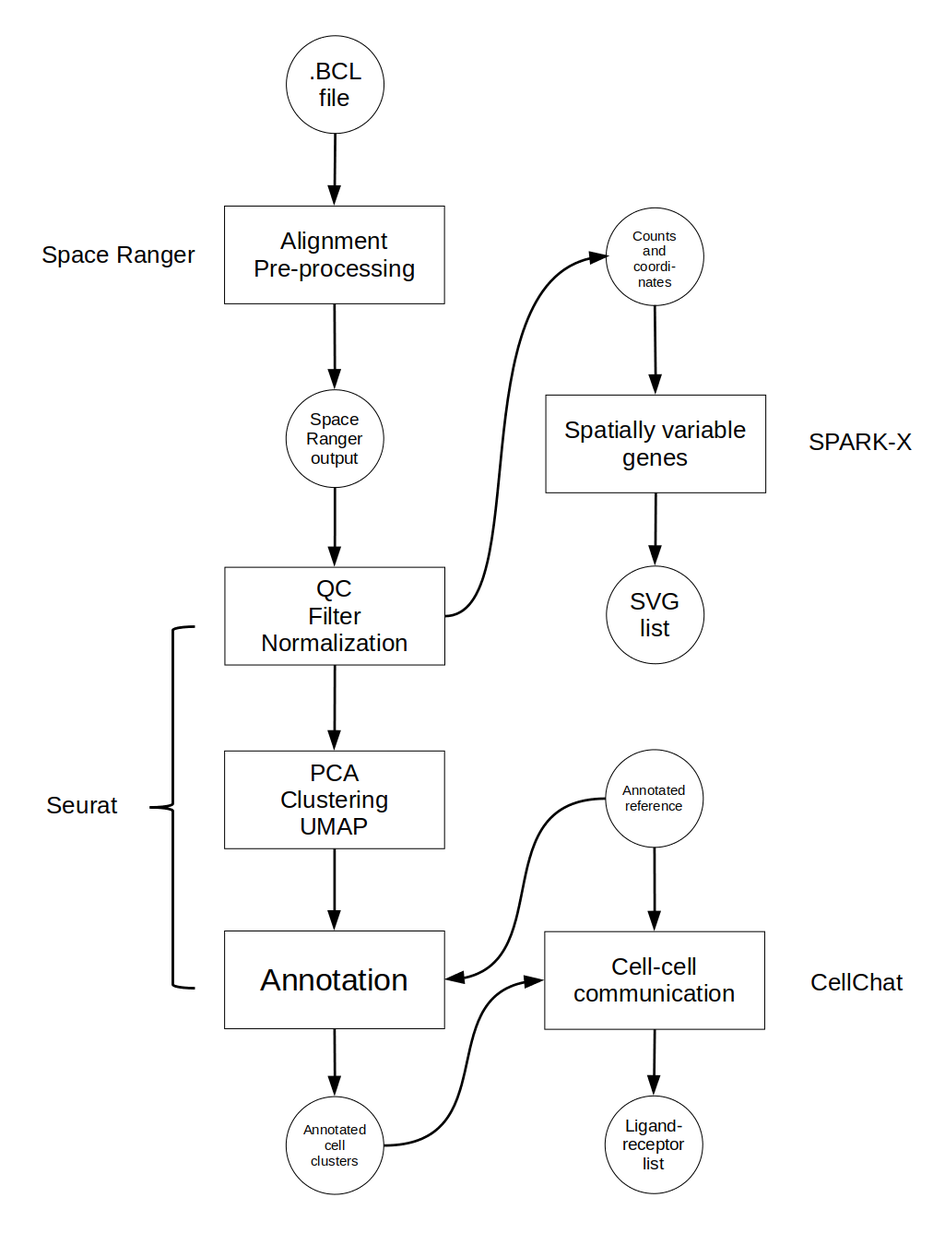
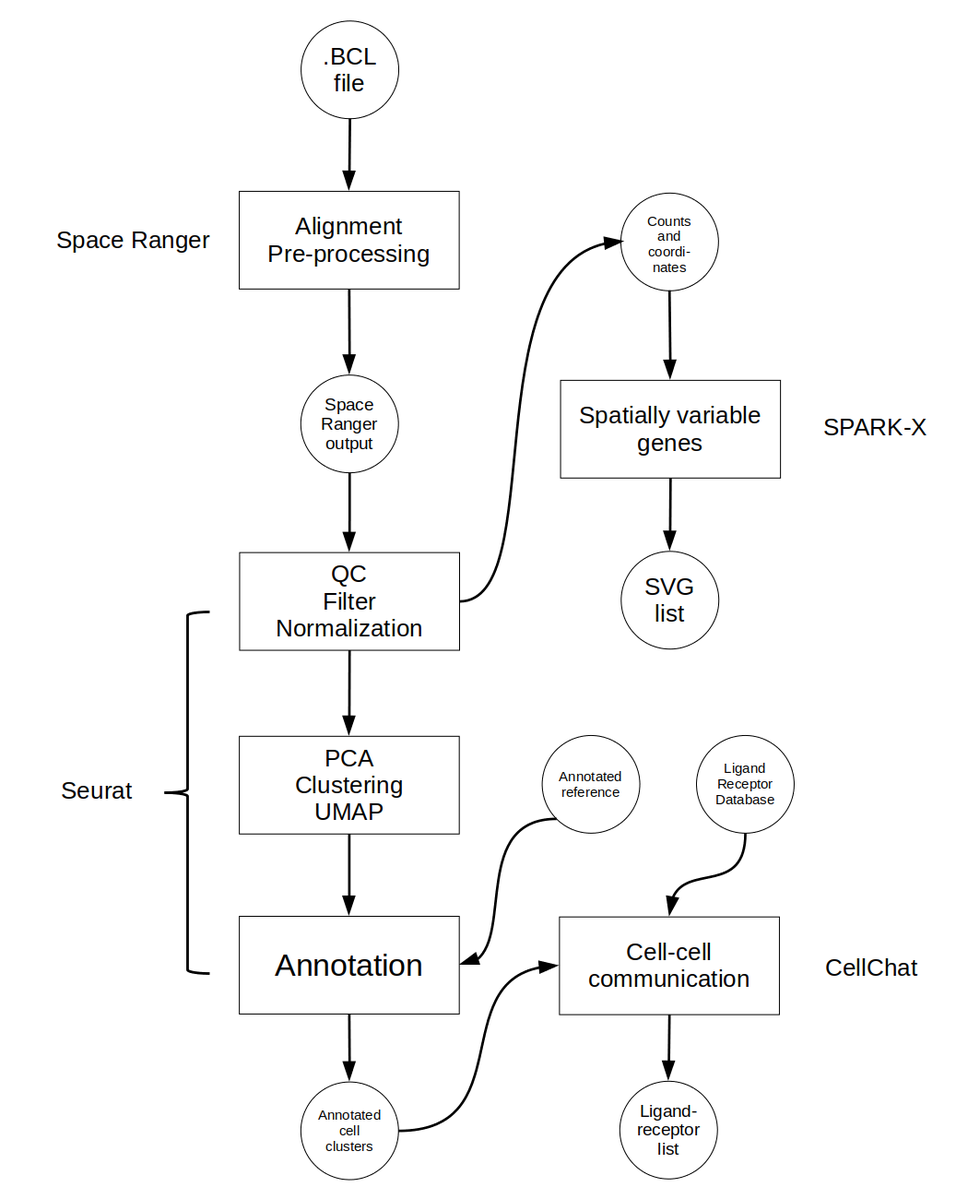
Fix figure and references in text

diff --git a/qc-clustering-and-annotating-with-seurat.html b/qc-clustering-and-annotating-with-seurat.html
@@ -23,7 +23,7 @@
 <meta name="author" content="Jessica Gillespie" />
 
 
-<meta name="date" content="2025-04-05" />
+<meta name="date" content="2025-04-07" />
 
   <meta name="viewport" content="width=device-width, initial-scale=1" />
   <meta name="apple-mobile-web-app-capable" content="yes" />
@@ -273,7 +273,7 @@ code span.wa { color: #60a0b0; font-weight: bold; font-style: italic; } /* Warni
 <p><img src="03-Clustering_files/figure-html/feature_check-2.png" width="672" /></p>
 <div class="sourceCode" id="cb11"><pre class="sourceCode r"><code class="sourceCode r"><span id="cb11-1"><a href="qc-clustering-and-annotating-with-seurat.html#cb11-1" tabindex="-1"></a><span class="fu">ggsave</span>(<span class="at">filename =</span> <span class="fu">paste0</span>(figs_dir, <span class="st">&quot;/Figure_clust_&quot;</span>, fig_num, <span class="st">&quot;.png&quot;</span>), <span class="at">plot =</span> <span class="fu">wrap_plots</span>(figa, figb, figc), <span class="at">units =</span> <span class="st">&quot;in&quot;</span>, <span class="at">width =</span> two_panel <span class="sc">*</span> (<span class="dv">7</span><span class="sc">/</span><span class="dv">4</span>), <span class="at">height =</span> two_panel, <span class="at">dpi =</span> <span class="dv">300</span>)</span>
 <span id="cb11-2"><a href="qc-clustering-and-annotating-with-seurat.html#cb11-2" tabindex="-1"></a>fig_num <span class="ot">=</span> fig_num <span class="sc">+</span> <span class="dv">1</span></span></code></pre></div>
-<p>Based on Figure 2, we use the <code>subset</code> function to select samples with a mitochondrial percent &lt; 30 and a feature count &lt; 50,000.</p>
+<p>Based on the plots above, we use the <code>subset</code> function to select samples with a mitochondrial percent &lt; 30 and a feature count &lt; 50,000.</p>
 <div class="sourceCode" id="cb12"><pre class="sourceCode r"><code class="sourceCode r"><span id="cb12-1"><a href="qc-clustering-and-annotating-with-seurat.html#cb12-1" tabindex="-1"></a>brain_ant <span class="ot">&lt;-</span> <span class="fu">subset</span>(brain_ant, </span>
 <span id="cb12-2"><a href="qc-clustering-and-annotating-with-seurat.html#cb12-2" tabindex="-1"></a>                    <span class="at">subset =</span> percent.mt <span class="sc">&lt;</span> <span class="dv">30</span> <span class="sc">&amp;</span> nCount_Spatial <span class="sc">&lt;</span> <span class="dv">50000</span>)</span></code></pre></div>
 </div>
@@ -305,25 +305,25 @@ code span.wa { color: #60a0b0; font-weight: bold; font-style: italic; } /* Warni
 <pre><code>## Computing SNN</code></pre>
 <div class="sourceCode" id="cb19"><pre class="sourceCode r"><code class="sourceCode r"><span id="cb19-1"><a href="qc-clustering-and-annotating-with-seurat.html#cb19-1" tabindex="-1"></a>brain_ant <span class="ot">&lt;-</span> <span class="fu">FindClusters</span>(brain_ant, <span class="at">verbose =</span> <span class="cn">FALSE</span>)</span>
 <span id="cb19-2"><a href="qc-clustering-and-annotating-with-seurat.html#cb19-2" tabindex="-1"></a>brain_ant <span class="ot">&lt;-</span> <span class="fu">RunUMAP</span>(brain_ant, <span class="at">reduction =</span> <span class="st">&quot;pca&quot;</span>, <span class="at">dims =</span> <span class="dv">1</span><span class="sc">:</span><span class="dv">30</span>)</span></code></pre></div>
-<pre><code>## 09:29:18 UMAP embedding parameters a = 0.9922 b = 1.112</code></pre>
-<pre><code>## 09:29:18 Read 2779 rows and found 30 numeric columns</code></pre>
-<pre><code>## 09:29:18 Using Annoy for neighbor search, n_neighbors = 30</code></pre>
-<pre><code>## 09:29:18 Building Annoy index with metric = cosine, n_trees = 50</code></pre>
+<pre><code>## 04:18:50 UMAP embedding parameters a = 0.9922 b = 1.112</code></pre>
+<pre><code>## 04:18:50 Read 2779 rows and found 30 numeric columns</code></pre>
+<pre><code>## 04:18:50 Using Annoy for neighbor search, n_neighbors = 30</code></pre>
+<pre><code>## 04:18:50 Building Annoy index with metric = cosine, n_trees = 50</code></pre>
 <pre><code>## 0%   10   20   30   40   50   60   70   80   90   100%</code></pre>
 <pre><code>## [----|----|----|----|----|----|----|----|----|----|</code></pre>
 <pre><code>## **************************************************|
-## 09:29:18 Writing NN index file to temp file /tmp/Rtmpl7t7cx/file1931c18242605
-## 09:29:18 Searching Annoy index using 1 thread, search_k = 3000
-## 09:29:18 Annoy recall = 100%
-## 09:29:19 Commencing smooth kNN distance calibration using 1 thread with target n_neighbors = 30
-## 09:29:19 Initializing from normalized Laplacian + noise (using RSpectra)
-## 09:29:20 Commencing optimization for 500 epochs, with 109402 positive edges
-## 09:29:20 Using rng type: pcg
-## 09:29:22 Optimization finished</code></pre>
+## 04:18:50 Writing NN index file to temp file /tmp/RtmpBB83Wh/file17d134de6e26
+## 04:18:50 Searching Annoy index using 1 thread, search_k = 3000
+## 04:18:50 Annoy recall = 100%
+## 04:18:51 Commencing smooth kNN distance calibration using 1 thread with target n_neighbors = 30
+## 04:18:52 Initializing from normalized Laplacian + noise (using RSpectra)
+## 04:18:52 Commencing optimization for 500 epochs, with 109402 positive edges
+## 04:18:52 Using rng type: pcg
+## 04:18:54 Optimization finished</code></pre>
 </div>
 <div id="visualizing-clusters" class="section level2 hasAnchor" number="4.4">
 <h2><span class="header-section-number">4.4</span> Visualizing Clusters<a href="qc-clustering-and-annotating-with-seurat.html#visualizing-clusters" class="anchor-section" aria-label="Anchor link to header"></a></h2>
-<p>There are a few options for visualization of our clusters. First, a traditional UMAP plot showing our clustering results with this <code>DimPlot</code> function (Figure 4a). <code>SpatialDimPlot</code> will show the distribution of identified clusters by overlaying them onto our tissue image. Giving <code>SpatialDimPlot</code> a few cluster identities allows us to highlight the location of selected clusters (Figure 4b).</p>
+<p>There are a few options for visualization of our clusters. First, a traditional UMAP plot showing our clustering results with this <code>DimPlot</code> function. <code>SpatialDimPlot</code> will show the distribution of identified clusters by overlaying them onto our tissue image. Giving <code>SpatialDimPlot</code> a few cluster identities allows us to highlight the location of selected clusters.</p>
 <p>Again, these are ggplot objects that can be customized using the ggplot2 package.</p>
 <div class="sourceCode" id="cb27"><pre class="sourceCode r"><code class="sourceCode r"><span id="cb27-1"><a href="qc-clustering-and-annotating-with-seurat.html#cb27-1" tabindex="-1"></a>figa <span class="ot">&lt;-</span> <span class="fu">DimPlot</span>(brain_ant, <span class="at">reduction =</span> <span class="st">&quot;umap&quot;</span>, <span class="at">label =</span> <span class="cn">TRUE</span>) <span class="sc">+</span></span>
 <span id="cb27-2"><a href="qc-clustering-and-annotating-with-seurat.html#cb27-2" tabindex="-1"></a>                <span class="fu">labs</span>(<span class="at">title =</span> <span class="st">&quot;A&quot;</span>) <span class="sc">+</span></span>
@@ -346,7 +346,7 @@ code span.wa { color: #60a0b0; font-weight: bold; font-style: italic; } /* Warni
 <div id="spot-annotating" class="section level2 hasAnchor" number="4.5">
 <h2><span class="header-section-number">4.5</span> Spot Annotating<a href="qc-clustering-and-annotating-with-seurat.html#spot-annotating" class="anchor-section" aria-label="Anchor link to header"></a></h2>
 <p>A final step required is to annotate our clusters by assigning them cell types. This process is not single-cell resolution as our clusters consist of “spots” that contain several cells each (a characteristic of the 10X Visium platform used here). Deconvolution is needed to estimate individual cell types in each spot and is a separate step.</p>
-<p>While there are automated methods to do this, they are far from perfect, and the best way to annotate your samples is to have domain knowledge of markers that indicate cell types. If particular markers are known, expression can be viewed by cluster via a violin plot to assist in confirming. Several methods exist to perform this step. <code>SingleR</code> with <code>celldex</code> is a popular method. Another method is <code>Azimuth</code>. Here, we will use Sc-Type. The <code>run_sctype</code> function has built-in references if we provide “Brain” as the tissue type. Note that this reference is currently only for human tissue so the match will not be perfect for our data here. We can then show the new cluster assignments using <code>DimPlot</code> and <code>SpatialDimPlot</code> (Figure 5).</p>
+<p>While there are automated methods to do this, they are far from perfect, and the best way to annotate your samples is to have domain knowledge of markers that indicate cell types. If particular markers are known, expression can be viewed by cluster via a violin plot to assist in confirming. Several methods exist to perform this step. <code>SingleR</code> with <code>celldex</code> is a popular method. Another method is <code>Azimuth</code>. Here, we will use Sc-Type. The <code>run_sctype</code> function has built-in references if we provide “Brain” as the tissue type. Note that this reference is currently only for human tissue so the match will not be perfect for our data here. We can then show the new cluster assignments using <code>DimPlot</code> and <code>SpatialDimPlot</code>.</p>
 <div class="sourceCode" id="cb29"><pre class="sourceCode r"><code class="sourceCode r"><span id="cb29-1"><a href="qc-clustering-and-annotating-with-seurat.html#cb29-1" tabindex="-1"></a>brain_ant <span class="ot">&lt;-</span> <span class="fu">run_sctype</span>(brain_ant, <span class="at">assay =</span> <span class="st">&quot;SCT&quot;</span>, <span class="at">scaled =</span> <span class="cn">TRUE</span>,</span>
 <span id="cb29-2"><a href="qc-clustering-and-annotating-with-seurat.html#cb29-2" tabindex="-1"></a>                     <span class="at">known_tissue_type=</span><span class="st">&quot;Brain&quot;</span>, <span class="at">name=</span><span class="st">&quot;sctype_classification&quot;</span>)</span></code></pre></div>
 <pre><code>## [1] &quot;Using Seurat v4 object&quot;

diff --git a/cell-cell-communication-with-cellchat.html b/cell-cell-communication-with-cellchat.html
@@ -23,7 +23,7 @@
 <meta name="author" content="Jessica Gillespie" />
 
 
-<meta name="date" content="2025-04-05" />
+<meta name="date" content="2025-04-07" />
 
   <meta name="viewport" content="width=device-width, initial-scale=1" />
   <meta name="apple-mobile-web-app-capable" content="yes" />
@@ -218,7 +218,7 @@ code span.wa { color: #60a0b0; font-weight: bold; font-style: italic; } /* Warni
 <div id="cell-cell-communication-with-cellchat" class="section level1 hasAnchor" number="6">
 <h1><span class="header-section-number">Chapter 6</span> Cell-Cell Communication with CellChat<a href="cell-cell-communication-with-cellchat.html#cell-cell-communication-with-cellchat" class="anchor-section" aria-label="Anchor link to header"></a></h1>
 <p>Cells communicate by releasing and receiving molecular messages called ligands. Ligands bind to receptors, often found on cell surfaces. This binding then activates a reaction or pathway that leads to a cell function. Due to decades of research, we know which ligands typically bind to which receptors. Thanks to the scRNA-seq data for our sample we know which cells are expressing either the ligand or receptor in a canonical communication pair. As we also have spatial data available, we can use statistics to predict which cells are most likely communicating with one another based on ligand-receptor gene expression and physical distance from one another.</p>
-<p>One factor that heavily influences the results of any CCC analysis is the ligand-receptor database used. Indeed the same method can return two drastically different results merely by working from two different ligand-receptor pair lists. CellChat has its own database, CellChatDB, which is manually curated and takes into account things like subunit structure and regulatory pathways. The database is not exhaustive, however, and some ligand-receptor pairs may be missing. Users are able to update the database following the instructions <a href="https://htmlpreview.github.io/?https://github.com/jinworks/CellChat/blob/master/tutorial/Update-CellChatDB.html%5D">here</a></p>
+<p>One factor that heavily influences the results of any CCC analysis is the ligand-receptor database used. Indeed the same method can return two drastically different results merely by working from two different ligand-receptor pair lists. CellChat has its own database, CellChatDB, which is manually curated and takes into account things like subunit structure and regulatory pathways. The database is not exhaustive, however, and some ligand-receptor pairs may be missing. Users are able to update the database following the instructions <a href="https://htmlpreview.github.io/?https://github.com/jinworks/CellChat/blob/master/tutorial/Update-CellChatDB.html">here</a></p>
 <p>Another important factor is your annotations previously added in the Clustering step. CellChat will group samples by these annotations to determine which groups are potentially communicating with one another. Be sure your sample is well annotated to obtain the most accurate communication network.</p>
 <p>As always, let’s load our libraries.</p>
 <div class="sourceCode" id="cb45"><pre class="sourceCode r"><code class="sourceCode r"><span id="cb45-1"><a href="cell-cell-communication-with-cellchat.html#cb45-1" tabindex="-1"></a><span class="fu">rm</span>(<span class="at">list =</span> <span class="fu">ls</span>())</span>
@@ -351,7 +351,7 @@ code span.wa { color: #60a0b0; font-weight: bold; font-style: italic; } /* Warni
 <div class="sourceCode" id="cb66"><pre class="sourceCode r"><code class="sourceCode r"><span id="cb66-1"><a href="cell-cell-communication-with-cellchat.html#cb66-1" tabindex="-1"></a>fig_num <span class="ot">&lt;-</span> fig_num <span class="sc">+</span> <span class="dv">1</span></span>
 <span id="cb66-2"><a href="cell-cell-communication-with-cellchat.html#cb66-2" tabindex="-1"></a><span class="fu">netVisual_heatmap</span>(cellChat, <span class="at">measure =</span> <span class="st">&quot;weight&quot;</span>, <span class="at">color.heatmap =</span> <span class="st">&quot;Blues&quot;</span>)</span></code></pre></div>
 <p><img src="05-CCC_files/figure-html/vis_full-4.png" width="672" /></p>
-<p>If we are interested in a particular signaling pathway, a list of communication probabilities is available in the CellChat object metadata. We can look at the probability of interactions between cell groups involved in the NOTCH pathway with the <code>netVisual_aggregate</code> function (Figure 8).</p>
+<p>If we are interested in a particular signaling pathway, a list of communication probabilities is available in the CellChat object metadata. We can look at the probability of interactions between cell groups involved in the NOTCH pathway with the <code>netVisual_aggregate</code> function.</p>
 <div class="sourceCode" id="cb67"><pre class="sourceCode r"><code class="sourceCode r"><span id="cb67-1"><a href="cell-cell-communication-with-cellchat.html#cb67-1" tabindex="-1"></a><span class="co"># Visualize pathways</span></span>
 <span id="cb67-2"><a href="cell-cell-communication-with-cellchat.html#cb67-2" tabindex="-1"></a>cellChat<span class="sc">@</span>netP<span class="sc">$</span>pathways</span></code></pre></div>
 <pre><code>##   [1] &quot;Glutamate&quot;        &quot;GABA-A&quot;           &quot;GABA-B&quot;          
@@ -401,7 +401,7 @@ code span.wa { color: #60a0b0; font-weight: bold; font-style: italic; } /* Warni
 <div class="sourceCode" id="cb71"><pre class="sourceCode r"><code class="sourceCode r"><span id="cb71-1"><a href="cell-cell-communication-with-cellchat.html#cb71-1" tabindex="-1"></a>fig_num <span class="ot">&lt;-</span> fig_num <span class="sc">+</span> <span class="dv">1</span></span>
 <span id="cb71-2"><a href="cell-cell-communication-with-cellchat.html#cb71-2" tabindex="-1"></a><span class="fu">netVisual_aggregate</span>(cellChat, <span class="at">signaling =</span> pathways.show, <span class="at">layout =</span> <span class="st">&quot;circle&quot;</span>)</span></code></pre></div>
 <p><img src="05-CCC_files/figure-html/vis_path-1.png" width="672" /></p>
-<p>Finally, we can explore the “centrality” of a network. This tells us which nodes are active in the most pathways and therefore could be more “important”. The calculation is done with “netAnalysis_computeCentrality” and visualized with <code>netAnalysis_signalingRole_network</code> (Figure 9).</p>
+<p>Finally, we can explore the “centrality” of a network. This tells us which nodes are active in the most pathways and therefore could be more “important”. The calculation is done with “netAnalysis_computeCentrality” and visualized with <code>netAnalysis_signalingRole_network</code>.</p>
 <div class="sourceCode" id="cb72"><pre class="sourceCode r"><code class="sourceCode r"><span id="cb72-1"><a href="cell-cell-communication-with-cellchat.html#cb72-1" tabindex="-1"></a><span class="co"># Compute the network centrality scores</span></span>
 <span id="cb72-2"><a href="cell-cell-communication-with-cellchat.html#cb72-2" tabindex="-1"></a>cellChat <span class="ot">&lt;-</span> <span class="fu">netAnalysis_computeCentrality</span>(cellChat, <span class="at">slot.name =</span> <span class="st">&quot;netP&quot;</span>) <span class="co"># the slot &#39;netP&#39; means the inferred intercellular communication network of signaling pathways</span></span>
 <span id="cb72-3"><a href="cell-cell-communication-with-cellchat.html#cb72-3" tabindex="-1"></a><span class="co"># Visualize the computed centrality scores using heatmap, allowing ready identification of major signaling roles of cell groups</span></span>

diff --git a/future-directions-and-conclusion.html b/future-directions-and-conclusion.html
@@ -23,7 +23,7 @@
 <meta name="author" content="Jessica Gillespie" />
 
 
-<meta name="date" content="2025-04-05" />
+<meta name="date" content="2025-04-07" />
 
   <meta name="viewport" content="width=device-width, initial-scale=1" />
   <meta name="apple-mobile-web-app-capable" content="yes" />
@@ -224,7 +224,7 @@ code span.wa { color: #60a0b0; font-weight: bold; font-style: italic; } /* Warni
 </div>
 <div id="conclusion" class="section level2 hasAnchor" number="7.2">
 <h2><span class="header-section-number">7.2</span> Conclusion<a href="future-directions-and-conclusion.html#conclusion" class="anchor-section" aria-label="Anchor link to header"></a></h2>
-<p>Spatial transcriptomics adds another level to RNA analysis, combining gene expression and location information. While we present a simple workflow with mostly default options, there are many nuances to ST analysis. For example, many software has the option to pre-process data before clustering yet there has been evidence that pre-processing can greatly affect analysis outcome18. Similarly, normalization can affect deconvolution and it is suggested only raw spatial data should be used. For SVGs and CCC, the list of results returned and their associated statistics greatly depends on the software and database choice respectively. It has been demonstrated in multiple studies that analysis performance is highly dependent on the dataset/software pairing and further algorithm refinement is necessary.</p>
+<p>Spatial transcriptomics adds another level to RNA analysis, combining gene expression and location information. While we present a simple workflow with mostly default options, there are many nuances to ST analysis. For example, many software has the option to pre-process data before clustering yet there has been evidence that pre-processing can greatly affect analysis outcome. Similarly, normalization can affect deconvolution and it is suggested only raw spatial data should be used. For SVGs and CCC, the list of results returned and their associated statistics greatly depends on the software and database choice respectively. It has been demonstrated in multiple studies that analysis performance is highly dependent on the dataset/software pairing and further algorithm refinement is necessary.</p>
 <p>Here we focus on one platform and a handful of software for analysis but there are many options available. Visium is only one sequencing platform with other popular options being Slide-seq, MERFISH, seqFISH, Visium HD, and the emerging 10X Genomics Xenium. Each platform has its own pros and cons and offers slightly different analysis options. There are also many software options for each analysis step mentioned here. Again, each has distinct advantages and strengths depending on the dataset and sequencing platform. In the future, we would like to expand this protocol to make it applicable to a wider variety of platforms and analysis options.</p>
 <div class="sourceCode" id="cb79"><pre class="sourceCode r"><code class="sourceCode r"><span id="cb79-1"><a href="future-directions-and-conclusion.html#cb79-1" tabindex="-1"></a><span class="fu">sessionInfo</span>()</span></code></pre></div>
 <pre><code>## R version 4.4.3 (2025-02-28)

diff --git a/spatially-variable-genes-svgs-discovery-with-spark-x.html b/spatially-variable-genes-svgs-discovery-with-spark-x.html
@@ -23,7 +23,7 @@
 <meta name="author" content="Jessica Gillespie" />
 
 
-<meta name="date" content="2025-04-05" />
+<meta name="date" content="2025-04-07" />
 
   <meta name="viewport" content="width=device-width, initial-scale=1" />
   <meta name="apple-mobile-web-app-capable" content="yes" />
@@ -266,7 +266,7 @@ code span.wa { color: #60a0b0; font-weight: bold; font-style: italic; } /* Warni
 </div>
 <div id="visualizing-svgs" class="section level2 hasAnchor" number="5.3">
 <h2><span class="header-section-number">5.3</span> Visualizing SVGs<a href="spatially-variable-genes-svgs-discovery-with-spark-x.html#visualizing-svgs" class="anchor-section" aria-label="Anchor link to header"></a></h2>
-<p>Now that we have a list of spatially variable genes, we can look at them across our tissue sample using the Seurat <code>SpatialFeaturePlot</code>. Here we look at the top 10 most significantly spatially variable genes (Figure 6).</p>
+<p>Now that we have a list of spatially variable genes, we can look at them across our tissue sample using the Seurat <code>SpatialFeaturePlot</code>. Here we look at the top 10 most significantly spatially variable genes.</p>
 <div class="sourceCode" id="cb40"><pre class="sourceCode r"><code class="sourceCode r"><span id="cb40-1"><a href="spatially-variable-genes-svgs-discovery-with-spark-x.html#cb40-1" tabindex="-1"></a>top10 <span class="ot">&lt;-</span> brain_spark<span class="sc">$</span>res_mtest <span class="sc">%&gt;%</span></span>
 <span id="cb40-2"><a href="spatially-variable-genes-svgs-discovery-with-spark-x.html#cb40-2" tabindex="-1"></a>          <span class="fu">filter</span>(<span class="fu">between</span>(adjustedPval, <span class="dv">0</span>, <span class="fl">0.05</span>)) <span class="sc">%&gt;%</span></span>
 <span id="cb40-3"><a href="spatially-variable-genes-svgs-discovery-with-spark-x.html#cb40-3" tabindex="-1"></a>          <span class="fu">top_n</span>(<span class="sc">-</span><span class="dv">10</span>, adjustedPval)</span>

diff --git a/introduction.html b/introduction.html
@@ -23,7 +23,7 @@
 <meta name="author" content="Jessica Gillespie" />
 
 
-<meta name="date" content="2025-04-05" />
+<meta name="date" content="2025-04-07" />
 
   <meta name="viewport" content="width=device-width, initial-scale=1" />
   <meta name="apple-mobile-web-app-capable" content="yes" />
@@ -224,7 +224,7 @@ code span.wa { color: #60a0b0; font-weight: bold; font-style: italic; } /* Warni
 <p>This protocol will focus on ST analysis with the three steps mentioned above. The software used at each step is one of a myriad of options and was chosen for ideal dataflow and ease of use. All are available as R packages therefore a familiarity with basic R functionality such as installing and loading R packages, handling R datatypes, and loading and saving data in R is advised.</p>
 <div id="general-workflow" class="section level2 hasAnchor" number="2.1">
 <h2><span class="header-section-number">2.1</span> General Workflow<a href="introduction.html#general-workflow" class="anchor-section" aria-label="Anchor link to header"></a></h2>
-<p>Figure 1 shows the general workflow of this pipeline along with the software for each step. The workflow is presented linearly here although the steps after clustering may be done in any order and several are optional depending on the desired analysis.</p>
+<p>The figure below shows the general workflow of this pipeline along with the software for each step. The workflow is presented linearly here although the steps after clustering may be done in any order and several are optional depending on the desired analysis.</p>
 <p><img src="Figure_intro_1.png" alt="Diagram of protocol workflow" />
 <br>
 <br>

diff --git a/materials.html b/materials.html
@@ -23,7 +23,7 @@
 <meta name="author" content="Jessica Gillespie" />
 
 
-<meta name="date" content="2025-04-05" />
+<meta name="date" content="2025-04-07" />
 
   <meta name="viewport" content="width=device-width, initial-scale=1" />
   <meta name="apple-mobile-web-app-capable" content="yes" />
@@ -227,9 +227,9 @@ code span.wa { color: #60a0b0; font-weight: bold; font-style: italic; } /* Warni
 <ul>
 <li><a href="https://www.r-project.org/">R (v4.4.2)</a></li>
 <li><a href="https://posit.co/downloads/">RStudio (RStudio 2024.12.0+467 “Kousa Dogwood”)</a></li>
-<li><a href="https://satijalab.org/seurat/">Seurat5 (v5.2.0)</a></li>
-<li><a href="https://xzhoulab.github.io/SPARK/">SPARK-X6</a></li>
-<li><a href="https://github.com/jinworks/CellChat">CellChat7 (v2.1.0)</a></li>
+<li><a href="https://satijalab.org/seurat/">Seurat (v5.2.0)</a></li>
+<li><a href="https://xzhoulab.github.io/SPARK/">SPARK-X</a></li>
+<li><a href="https://github.com/jinworks/CellChat">CellChat (v2.1.0)</a></li>
 </ul>
 </div>
 <div id="collect-necessary-files" class="section level2 hasAnchor" number="3.3">

diff --git a/index.html b/index.html
@@ -23,7 +23,7 @@
 <meta name="author" content="Jessica Gillespie" />
 
 
-<meta name="date" content="2025-04-05" />
+<meta name="date" content="2025-04-07" />
 
   <meta name="viewport" content="width=device-width, initial-scale=1" />
   <meta name="apple-mobile-web-app-capable" content="yes" />
@@ -218,7 +218,7 @@ code span.wa { color: #60a0b0; font-weight: bold; font-style: italic; } /* Warni
 <div id="header">
 <h1 class="title">A Gentle Introduction to Spatial Transcriptomics Analysis</h1>
 <p class="author"><em>Jessica Gillespie</em></p>
-<p class="date"><em>2025-04-05</em></p>
+<p class="date"><em>2025-04-07</em></p>
 </div>
 <div id="welcome" class="section level1 hasAnchor" number="1">
 <h1><span class="header-section-number">Chapter 1</span> Welcome!<a href="index.html#welcome" class="anchor-section" aria-label="Anchor link to header"></a></h1>

diff --git a/03-Clustering.md b/03-Clustering.md
@@ -81,7 +81,7 @@ ggsave(filename = paste0(figs_dir, "/Figure_clust_", fig_num, ".png"), plot = wr
 fig_num = fig_num + 1
 ```
 
-Based on Figure 2, we use the `subset` function to select samples with a mitochondrial percent < 30 and a feature count < 50,000.
+Based on the plots above, we use the `subset` function to select samples with a mitochondrial percent < 30 and a feature count < 50,000.
 
 
 ``` r
@@ -144,19 +144,19 @@ brain_ant <- RunUMAP(brain_ant, reduction = "pca", dims = 1:30)
 ```
 
 ```
-## 09:29:18 UMAP embedding parameters a = 0.9922 b = 1.112
+## 04:18:50 UMAP embedding parameters a = 0.9922 b = 1.112
 ```
 
 ```
-## 09:29:18 Read 2779 rows and found 30 numeric columns
+## 04:18:50 Read 2779 rows and found 30 numeric columns
 ```
 
 ```
-## 09:29:18 Using Annoy for neighbor search, n_neighbors = 30
+## 04:18:50 Using Annoy for neighbor search, n_neighbors = 30
 ```
 
 ```
-## 09:29:18 Building Annoy index with metric = cosine, n_trees = 50
+## 04:18:50 Building Annoy index with metric = cosine, n_trees = 50
 ```
 
 ```
@@ -169,19 +169,19 @@ brain_ant <- RunUMAP(brain_ant, reduction = "pca", dims = 1:30)
 
 ```
 ## **************************************************|
-## 09:29:18 Writing NN index file to temp file /tmp/Rtmpl7t7cx/file1931c18242605
-## 09:29:18 Searching Annoy index using 1 thread, search_k = 3000
-## 09:29:18 Annoy recall = 100%
-## 09:29:19 Commencing smooth kNN distance calibration using 1 thread with target n_neighbors = 30
-## 09:29:19 Initializing from normalized Laplacian + noise (using RSpectra)
-## 09:29:20 Commencing optimization for 500 epochs, with 109402 positive edges
-## 09:29:20 Using rng type: pcg
-## 09:29:22 Optimization finished
+## 04:18:50 Writing NN index file to temp file /tmp/RtmpBB83Wh/file17d134de6e26
+## 04:18:50 Searching Annoy index using 1 thread, search_k = 3000
+## 04:18:50 Annoy recall = 100%
+## 04:18:51 Commencing smooth kNN distance calibration using 1 thread with target n_neighbors = 30
+## 04:18:52 Initializing from normalized Laplacian + noise (using RSpectra)
+## 04:18:52 Commencing optimization for 500 epochs, with 109402 positive edges
+## 04:18:52 Using rng type: pcg
+## 04:18:54 Optimization finished
 ```
 
 ## Visualizing Clusters
 
-There are a few options for visualization of our clusters. First, a traditional UMAP plot showing our clustering results with this `DimPlot` function (Figure 4a). `SpatialDimPlot` will show the distribution of identified clusters by overlaying them onto our tissue image. Giving `SpatialDimPlot` a few cluster identities allows us to highlight the location of selected clusters (Figure 4b).
+There are a few options for visualization of our clusters. First, a traditional UMAP plot showing our clustering results with this `DimPlot` function. `SpatialDimPlot` will show the distribution of identified clusters by overlaying them onto our tissue image. Giving `SpatialDimPlot` a few cluster identities allows us to highlight the location of selected clusters.
 
 Again, these are ggplot objects that can be customized using the ggplot2 package.
 
@@ -214,7 +214,7 @@ fig_num = fig_num + 1
 
 A final step required is to annotate our clusters by assigning them cell types. This process is not single-cell resolution as our clusters consist of “spots” that contain several cells each (a characteristic of the 10X Visium platform used here). Deconvolution is needed to estimate individual cell types in each spot and is a separate step.
 
-While there are automated methods to do this, they are far from perfect, and the best way to annotate your samples is to have domain knowledge of markers that indicate cell types. If particular markers are known, expression can be viewed by cluster via a violin plot to assist in confirming. Several methods exist to perform this step. `SingleR` with `celldex` is a popular method. Another method is `Azimuth`. Here, we will use Sc-Type. The `run_sctype` function has built-in references if we provide “Brain” as the tissue type. Note that this reference is currently only for human tissue so the match will not be perfect for our data here. We can then show the new cluster assignments using `DimPlot` and `SpatialDimPlot` (Figure 5).
+While there are automated methods to do this, they are far from perfect, and the best way to annotate your samples is to have domain knowledge of markers that indicate cell types. If particular markers are known, expression can be viewed by cluster via a violin plot to assist in confirming. Several methods exist to perform this step. `SingleR` with `celldex` is a popular method. Another method is `Azimuth`. Here, we will use Sc-Type. The `run_sctype` function has built-in references if we provide “Brain” as the tissue type. Note that this reference is currently only for human tissue so the match will not be perfect for our data here. We can then show the new cluster assignments using `DimPlot` and `SpatialDimPlot`.
 
 
 ``` r

diff --git a/05-CCC.md b/05-CCC.md
@@ -4,7 +4,7 @@
 
 Cells communicate by releasing and receiving molecular messages called ligands. Ligands bind to receptors, often found on cell surfaces. This binding then activates a reaction or pathway that leads to a cell function. Due to decades of research, we know which ligands typically bind to which receptors. Thanks to the scRNA-seq data for our sample we know which cells are expressing either the ligand or receptor in a canonical communication pair. As we also have spatial data available, we can use statistics to predict which cells are most likely communicating with one another based on ligand-receptor gene expression and physical distance from one another.
 
-One factor that heavily influences the results of any CCC analysis is the ligand-receptor database used. Indeed the same method can return two drastically different results merely by working from two different ligand-receptor pair lists. CellChat has its own database, CellChatDB, which is manually curated and takes into account things like subunit structure and regulatory pathways. The database is not exhaustive, however, and some ligand-receptor pairs may be missing. Users are able to update the database following the instructions [here](https://htmlpreview.github.io/?https://github.com/jinworks/CellChat/blob/master/tutorial/Update-CellChatDB.html])
+One factor that heavily influences the results of any CCC analysis is the ligand-receptor database used. Indeed the same method can return two drastically different results merely by working from two different ligand-receptor pair lists. CellChat has its own database, CellChatDB, which is manually curated and takes into account things like subunit structure and regulatory pathways. The database is not exhaustive, however, and some ligand-receptor pairs may be missing. Users are able to update the database following the instructions [here](https://htmlpreview.github.io/?https://github.com/jinworks/CellChat/blob/master/tutorial/Update-CellChatDB.html)
 
 Another important factor is your annotations previously added in the Clustering step. CellChat will group samples by these annotations to determine which groups are potentially communicating with one another. Be sure your sample is well annotated to obtain the most accurate communication network.
 
@@ -222,7 +222,7 @@ netVisual_heatmap(cellChat, measure = "weight", color.heatmap = "Blues")
 
 <img src="05-CCC_files/figure-html/vis_full-4.png" width="672" />
 
-If we are interested in a particular signaling pathway, a list of communication probabilities is available in the CellChat object metadata. We can look at the probability of interactions between cell groups involved in the NOTCH pathway with the `netVisual_aggregate` function (Figure 8).
+If we are interested in a particular signaling pathway, a list of communication probabilities is available in the CellChat object metadata. We can look at the probability of interactions between cell groups involved in the NOTCH pathway with the `netVisual_aggregate` function.
 
 
 ``` r
@@ -290,7 +290,7 @@ netVisual_aggregate(cellChat, signaling = pathways.show, layout = "circle")
 
 <img src="05-CCC_files/figure-html/vis_path-1.png" width="672" />
 
-Finally, we can explore the "centrality" of a network. This tells us which nodes are active in the most pathways and therefore could be more "important". The calculation is done with “netAnalysis_computeCentrality” and visualized with `netAnalysis_signalingRole_network` (Figure 9).
+Finally, we can explore the "centrality" of a network. This tells us which nodes are active in the most pathways and therefore could be more "important". The calculation is done with “netAnalysis_computeCentrality” and visualized with `netAnalysis_signalingRole_network`.
 
 
 ``` r

diff --git a/06-Conclusion.md b/06-Conclusion.md
@@ -10,7 +10,7 @@ As we have RNA-seq data, analyses typically performed with these data can also b
 
 ## Conclusion
 
-Spatial transcriptomics adds another level to RNA analysis, combining gene expression and location information. While we present a simple workflow with mostly default options, there are many nuances to ST analysis. For example, many software has the option to pre-process data before clustering yet there has been evidence that pre-processing can greatly affect analysis outcome18. Similarly, normalization can affect deconvolution and it is suggested only raw spatial data should be used. For SVGs and CCC, the list of results returned and their associated statistics greatly depends on the software and database choice respectively. It has been demonstrated in multiple studies that analysis performance is highly dependent on the dataset/software pairing and further algorithm refinement is necessary.
+Spatial transcriptomics adds another level to RNA analysis, combining gene expression and location information. While we present a simple workflow with mostly default options, there are many nuances to ST analysis. For example, many software has the option to pre-process data before clustering yet there has been evidence that pre-processing can greatly affect analysis outcome. Similarly, normalization can affect deconvolution and it is suggested only raw spatial data should be used. For SVGs and CCC, the list of results returned and their associated statistics greatly depends on the software and database choice respectively. It has been demonstrated in multiple studies that analysis performance is highly dependent on the dataset/software pairing and further algorithm refinement is necessary.
 
 Here we focus on one platform and a handful of software for analysis but there are many options available. Visium is only one sequencing platform with other popular options being Slide-seq, MERFISH, seqFISH, Visium HD, and the emerging 10X Genomics Xenium. Each platform has its own pros and cons and offers slightly different analysis options. There are also many software options for each analysis step mentioned here. Again, each has distinct advantages and strengths depending on the dataset and sequencing platform. In the future, we would like to expand this protocol to make it applicable to a wider variety of platforms and analysis options.
 

diff --git a/01-Introduction.md b/01-Introduction.md
@@ -14,7 +14,7 @@ This protocol will focus on ST analysis with the three steps mentioned above. Th
 
 ## General Workflow
 
-Figure 1 shows the general workflow of this pipeline along with the software for each step. The workflow is presented linearly here although the steps after clustering may be done in any order and several are optional depending on the desired analysis.
+The figure below shows the general workflow of this pipeline along with the software for each step. The workflow is presented linearly here although the steps after clustering may be done in any order and several are optional depending on the desired analysis.
 
 ![Diagram of protocol workflow](Figure_intro_1.png)
 <br>

diff --git a/02-Materials.md b/02-Materials.md
@@ -12,9 +12,9 @@ R is the coding environment in which the analysis will take place. R can be run 
 
 - [R (v4.4.2)](https://www.r-project.org/)
 - [RStudio (RStudio 2024.12.0+467 "Kousa Dogwood")](https://posit.co/downloads/)
-- [Seurat5 (v5.2.0)](https://satijalab.org/seurat/)
-- [SPARK-X6](https://xzhoulab.github.io/SPARK/)
-- [CellChat7 (v2.1.0)](https://github.com/jinworks/CellChat)
+- [Seurat (v5.2.0)](https://satijalab.org/seurat/)
+- [SPARK-X](https://xzhoulab.github.io/SPARK/)
+- [CellChat (v2.1.0)](https://github.com/jinworks/CellChat)
 
 ## Collect necessary files
 
